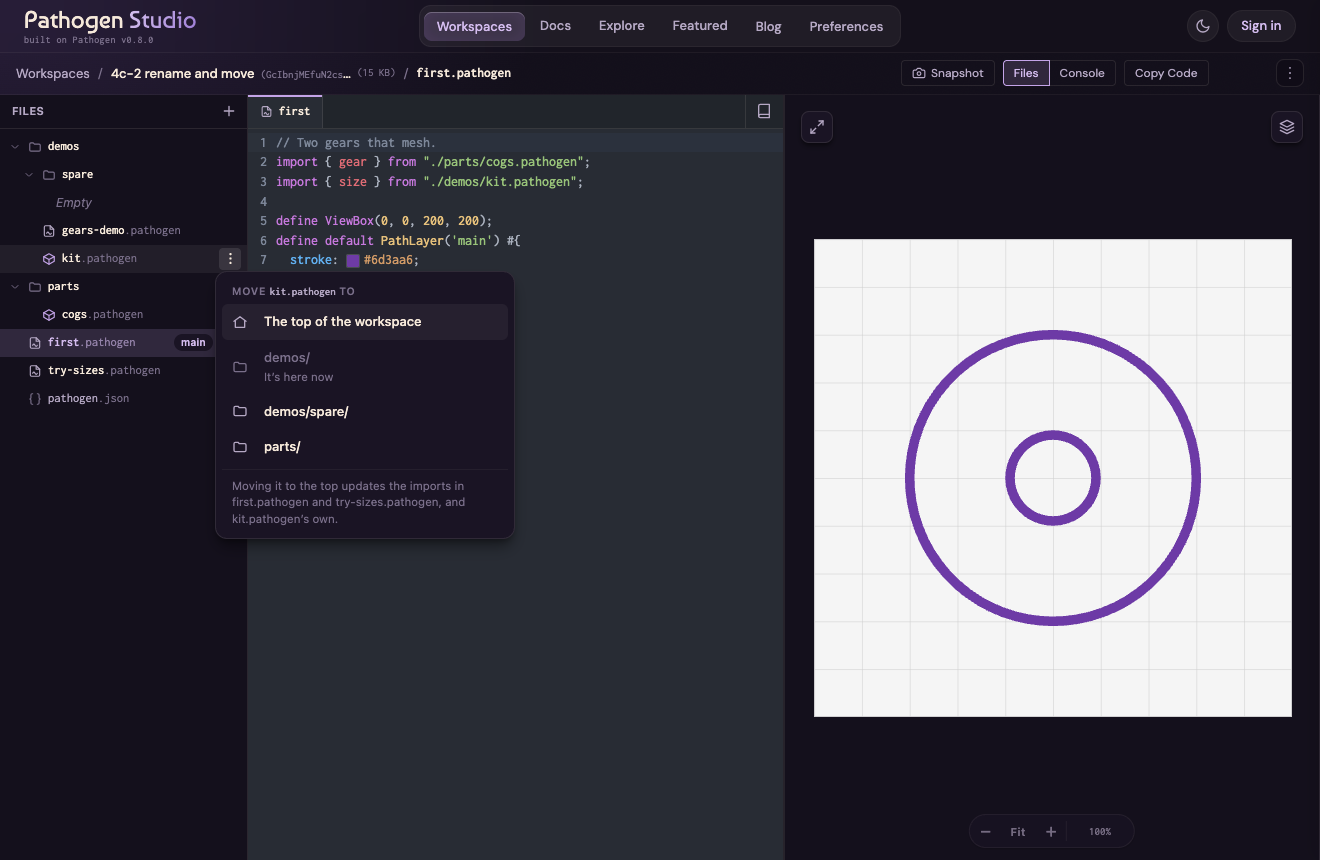
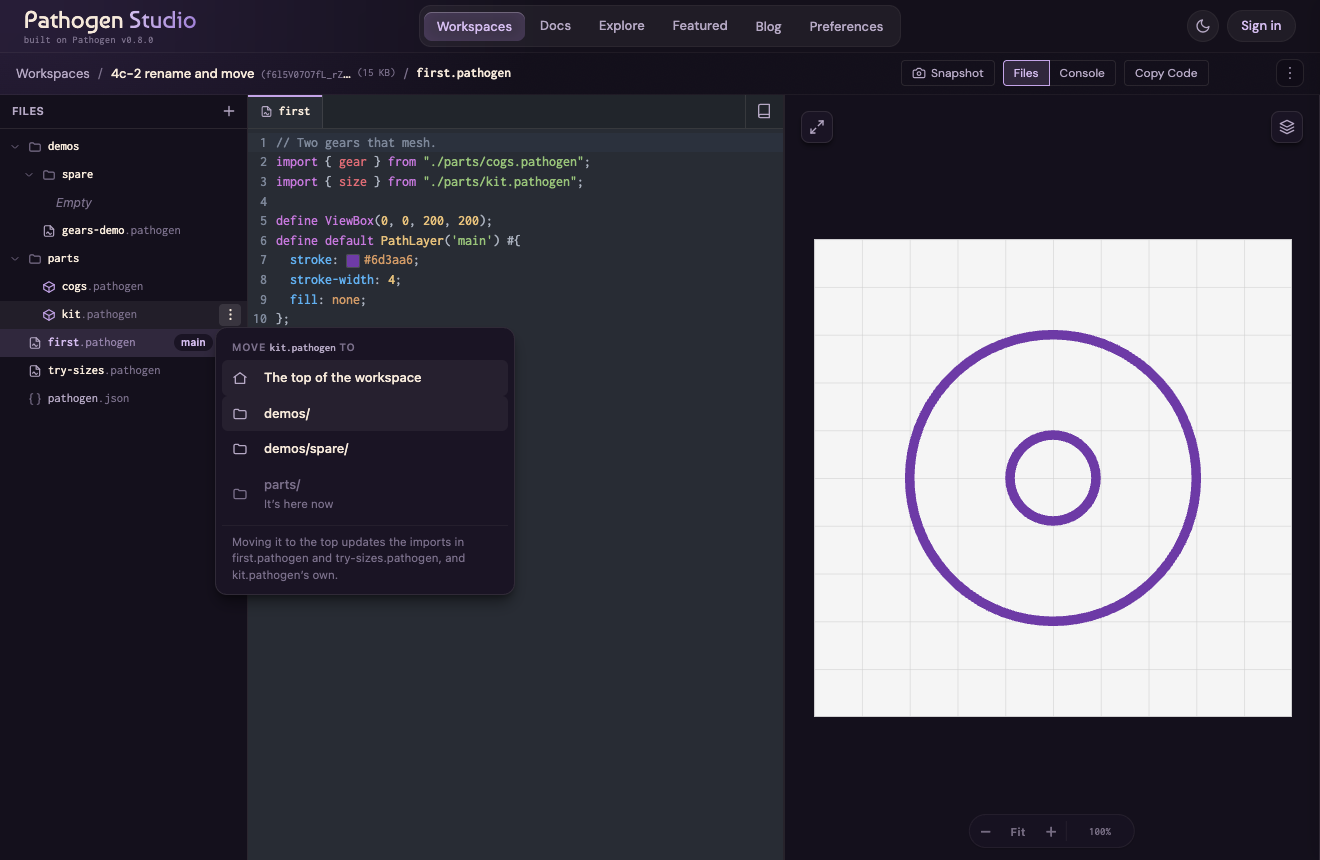
test(playground): the editor's import graph follows a moved file (2d, step 4c-2)
One more browser check in project-docs/modules/verify/verify-2d-step4c2.ts
(29 in all, all passing against dev:stack). It moves kit.pathogen where
`./` means something else: to the top while kept, then into parts/ while
open. After each move, the open file's import graph (what completion,
hover and go-to use) is built from the new folder with no load errors, and
the preview compiles. A control (an import of nothing) shows the check
sees a load error. The dark Move to… screenshot now shows parts/kit.pathogen.

diff --git a/project-docs/modules/verify/verify-2d-step4c2.ts b/project-docs/modules/verify/verify-2d-step4c2.ts
@@ -538,6 +538,58 @@ try {
     { open: s.open, rows: s.rows, field: s.field },
   );
 
+  // 12c. The editor's language services follow a move: its import graph (completion, hover,
+  //      go-to) is built from the file's new folder. Moves that change what `./` means:
+  //      demos/kit → the top while kept, then → parts/ while open.
+  const graphErrors = async (): Promise<number | null> =>
+    page.evaluate(`import('/services/workspace-modules.js').then((m) => {
+      const g = m.currentOpenFileModules();
+      return g ? g.loadErrors.length : null;
+    })`) as Promise<number | null>;
+  const settled = async (): Promise<number | null> => {
+    await pause(400);
+    return waitFor('the graph', async () => {
+      const n = await graphErrors();
+      return n === null ? null : { n };
+    }).then((r) => r?.n ?? null);
+  };
+  // The control: an import that reaches nothing shows as a load error.
+  await clickRow(page, 'demos/kit.pathogen');
+  await page.evaluate(`(() => {
+    const view = window.__find('code-editor-pane')._editor;
+    view.dispatch({ changes: { from: 'module;\\n'.length, insert: 'import { x } from "./nope.pathogen";\\n' } });
+  })()`);
+  const controlErrors = await settled();
+  await undoAll(page);
+  await clickRow(page, 'first.pathogen');
+  await rowMenu(page, 'demos/kit.pathogen');
+  await choose(page, 'move');
+  await clickIn(page, '[role="menuitem"][data-folder=""]');
+  await pause(600);
+  await clickRow(page, 'kit.pathogen');
+  const keptMoved = await settled();
+  s = await state(page);
+  const keptLine = lineOf(s.text, 'import { gear }');
+  await rowMenu(page, 'kit.pathogen');
+  await choose(page, 'move');
+  await clickIn(page, '[role="menuitem"][data-folder="parts"]');
+  await pause(600);
+  const openMoved = await settled();
+  s = await state(page);
+  await waitFor('the compile', async () => ((await storeGet(page, 'compilationStatus')) !== 'compiling' ? true : null));
+  const status = await storeGet(page, 'compilationStatus');
+  check(
+    'the editor’s import graph follows a moved file, kept or open (and sees a bad import)',
+    (controlErrors ?? 0) > 0 &&
+      keptMoved === 0 &&
+      keptLine === 'import { gear } from "./parts/cogs.pathogen";' &&
+      openMoved === 0 &&
+      s.open === 'parts/kit.pathogen' &&
+      lineOf(s.text, 'import { gear }') === 'import { gear } from "./cogs.pathogen";' &&
+      status !== 'error',
+    { controlErrors, keptMoved, keptLine, openMoved, open: s.open, line: lineOf(s.text, 'import { gear }'), status },
+  );
+
   // 13. Dark mode: Rename…'s field on a folder, and Move to….
   await setTheme(page, 'dark');
   await open(page, id);
@@ -550,7 +602,7 @@ try {
   await pause(200);
   s = await state(page);
   check('Escape leaves the name as it was, with the keyboard on the row', s.field === null && s.rows.includes('parts') && s.focusedRow === 'parts', { field: s.field, focused: s.focusedRow });
-  await rowMenu(page, 'demos/kit.pathogen');
+  await rowMenu(page, 'parts/kit.pathogen');
   await choose(page, 'move');
   await page.screenshot({ path: `${SHOTS}/2d-step4c2-move-to-dark.png` });
   await page.keyboard.press('Escape');

diff --git a/project-docs/modules/52-phase-2d-plan.md b/project-docs/modules/52-phase-2d-plan.md
@@ -395,7 +395,7 @@ Each step: tests first; a storybook entry for each new component (the playground
     - `tests/playground-editor-read-only.test.ts` (+4: `renameFiles`, `editFile` on a kept state, `editedLines`, `spanChange`);
     - `tests/playground-workspace-edits.test.ts` (+3: `renameHint`, `moveHint` wording; an Undo refused after an import alike was typed in);
     - `tests/playground-app-toast.test.ts` (3, new): the `signal`;
-  - `verify/verify-2d-step4c2.ts` against `npm run dev:stack`, 25 checks (28 after the review):
+  - `verify/verify-2d-step4c2.ts` against `npm run dev:stack`, 25 checks (29 after the review). The last one added: the editor's import graph (completion, hover, go-to) is rebuilt from a moved file's new folder, kept or open. It moves `kit` to the top and then into `parts/`, where `./` means something else, and shows no load errors. A control (an import of nothing) shows the check sees one:
     - the menus; Rename…'s field, selected, and its line; the renamed file's row, tab and keyboard; main's import rewritten and marked; the toast with Undo; the preview unchanged;
     - undoing everything in the open importer, a kept importer, and the renamed file itself: the typed text goes, the import stays at the new name, and the renamed file kept its history;
     - a folder's rename: its line, its tabs, two marked lines; the toast's Undo putting it all back;
